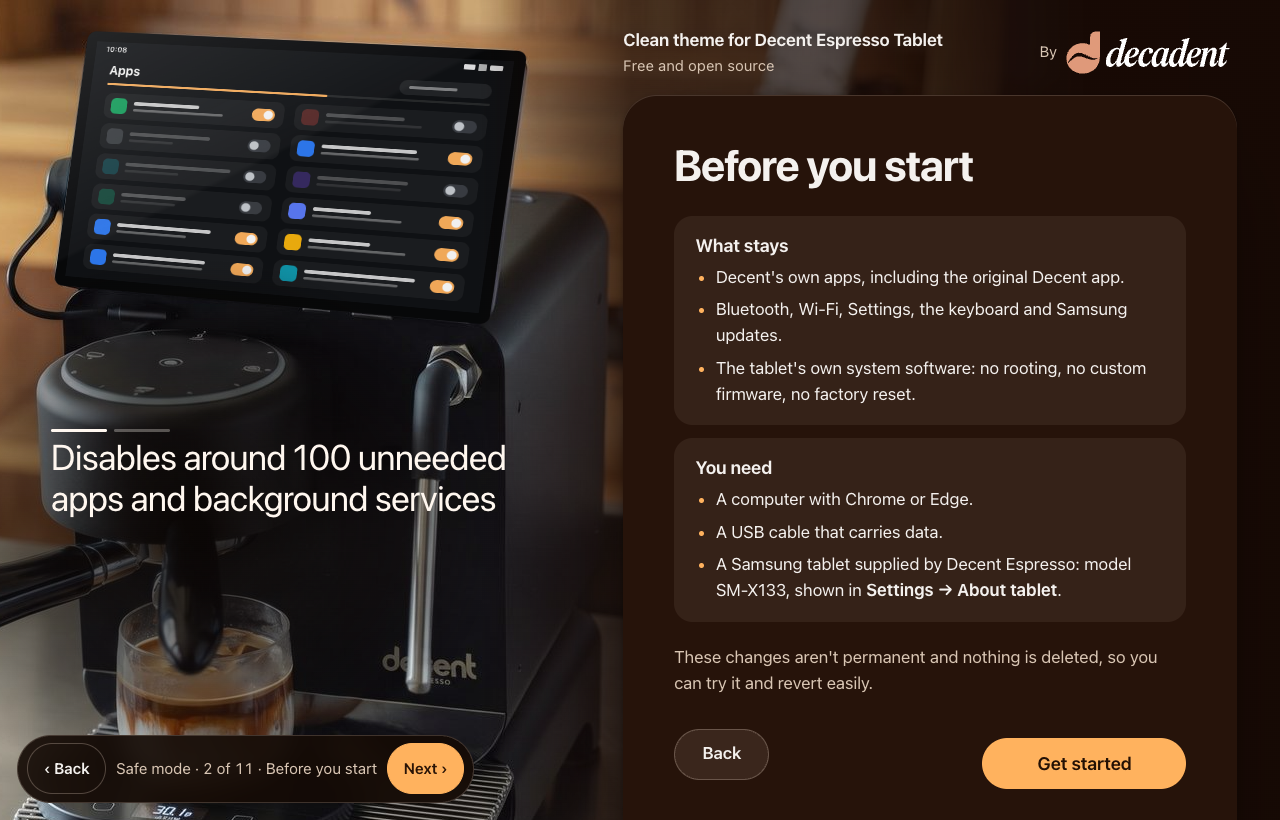
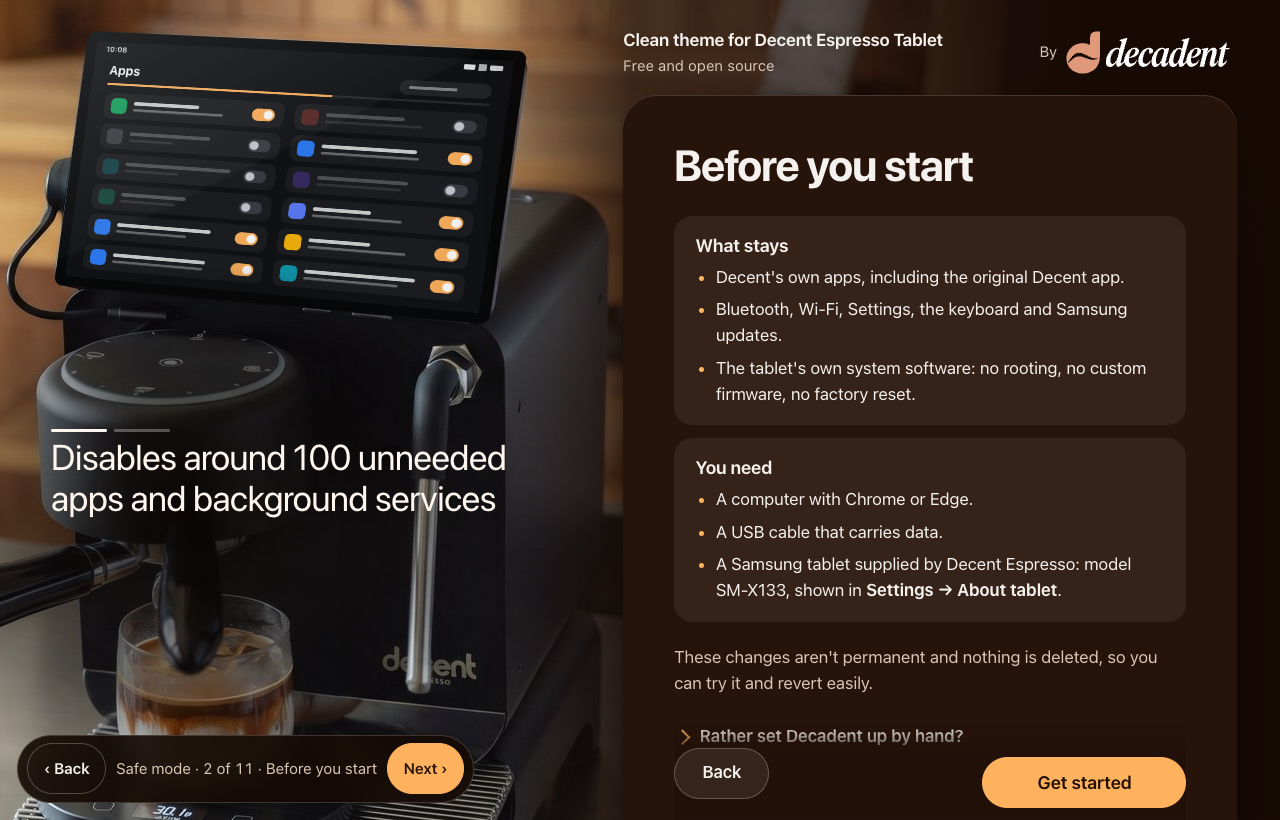
Decaid's first questions are a pause; the by-hand way is always on offer (D-27)
A Decaid that has never been opened asks its first questions. The page now
says so, waits, and adds the plugin by itself once Decaid's menu shows,
instead of handing over written instructions. The plugin step runs first
after the restart. The written instructions are always on the page as the
second way.

Changed region(s): [[0.5312, 0.8841, 0.9375, 1.0]]

diff --git a/web/src/app.js b/web/src/app.js
@@ -8,7 +8,7 @@ const FILES = __DEVICE_FILES__; // decent-setup.sh, packages-disable.txt, device
 const APKS = __APKS__; // [{ name, pkg, url, sha }]
 const qs = new URLSearchParams(location.search);
 // Safe mode (?safe, the older ?demo still works): a pretend tablet for the developer. Every screen looks and
-// behaves as in a real run, with Next / Back in a bar; nothing reaches USB. ?safe=done|nodecaid|manual|model|fail|build.
+// behaves as in a real run, with Next / Back in a bar; nothing reaches USB. ?safe=done|nodecaid|manual|model|fail|build. &asks=N: Decaid asks its first questions for N checks.
 const DEMO = qs.has("safe") || qs.has("demo");
 const DEMO_KIND = qs.get("safe") ?? qs.get("demo");
 
@@ -46,7 +46,7 @@ function supported() { return DEMO || ("usb" in navigator && window.isSecureCont
 async function connect() {
   setError("connect-error"); const btn = $("connect"); btn.disabled = true; btn.textContent = "Connecting…";
   try {
-    if (DEMO) tablet = new DemoTablet({ slow: !qs.get("to"), decadent: qs.get("decadent") === "installed", done: DEMO_KIND === "done", noDecaid: DEMO_KIND === "nodecaid", manual: DEMO_KIND === "manual", net: qs.get("net") || (qs.get("to") === "finished" ? "all" : null), hold: qs.get("to") === "running", fail: { model: "model", fail: "run", build: "build" }[DEMO_KIND] });
+    if (DEMO) tablet = new DemoTablet({ slow: !qs.get("to"), decadent: qs.get("decadent") === "installed", done: DEMO_KIND === "done", noDecaid: DEMO_KIND === "nodecaid", manual: DEMO_KIND === "manual", net: qs.get("net") || (qs.get("to") === "finished" ? "all" : null), hold: qs.get("to") === "running", asks: qs.get("asks") ? +qs.get("asks") : DEMO_KIND === "nodecaid" && qs.get("decaid") === "add" ? 4 : 0, fail: { model: "model", fail: "run", build: "build" }[DEMO_KIND] });
     else {
       const device = await AdbDaemonWebUsbDeviceManager.BROWSER.requestDevice();
       if (!device) throw new Error("No device selected");
@@ -302,13 +302,14 @@ async function runSetup() {
 }
 
 // Last steps. The owner joins Wi-Fi and signs in to Google; the core script's `finish` steps drive the rest
-// through the tablet's screen. A step the tablet doesn't allow ends as MANUAL and shows its written instructions.
+// through the tablet's screen. Decaid's first questions are a pause for the owner (decaidReady). The written instructions
+// are always on the screen as the second way; a step the tablet doesn't allow also lists its own under Left for you.
 let wantHomeDone = true, finWifi = false, finAcct = null, finPoll = null, decadentHad = false;
 const FIN = (s) => $("fin-steps").querySelector(`[data-k="${s}"]`);
 function finState(k, state, why) {
   const li = FIN(k); if (!li) return;
   li.dataset.state = state;
-  li.querySelector(".st").textContent = { run: "…", done: "✓", skip: "–", manual: "!" }[state] || "";
+  li.querySelector(".st").textContent = { run: "…", done: "✓", skip: "–", manual: "!", you: "?" }[state] || "";
   li.title = why || "";
 }
 async function finStatus() {
@@ -373,6 +374,24 @@ async function reconnectByHand() {
     await runFinish(true);
   } catch (e) { setError("fin-error", plainError(e)); $("fin-reconnect-row").hidden = false; }
 }
+// A Decaid that has never been opened asks its first questions (account, permissions, old data). They are the
+// owner's to answer: the page opens Decaid, says so, asks the tablet again every few seconds, and carries on by itself
+// once Decaid's menu shows. True when Decaid is ready for the plugin step.
+let decaidPass = false;
+async function decaidReady() {
+  const ask = $("decaid-ask"), keep = $("fin-keep"), was = keep.textContent, until = Date.now() + 15 * 60000;
+  decaidPass = false;
+  try {
+    for (let first = true; Date.now() < until && !decaidPass; first = false) {
+      const st = parseStatus(await tablet.setup(`finish decaid${first ? " open" : ""}`));
+      if (st.decaid !== "asking") return st.decaid === "ready";
+      if (ask.hidden) { ask.hidden = false; finState("plugin", "you"); keep.textContent = "Keep the cable plugged in. Decaid is waiting for you on the tablet."; }
+      await wait(2000);
+    }
+    return false;
+  } catch { return false; }
+  finally { ask.hidden = true; keep.textContent = was; }
+}
 function outcome(lines, k) {
   const mine = lines.filter((l) => / finish /.test(` ${l} `) || l.startsWith("FAIL"));
   if (mine.some((l) => l.startsWith("MANUAL") || l.startsWith("FAIL"))) return "manual";
@@ -387,7 +406,8 @@ async function runFinish(afterRestart = false) {
   const home = wantHomeDone, onHome = home && $("fin-decadent").checked, decadent = onHome && !decadentHad;
   // The Decadent plugin goes into Decaid through Decaid's own installer, whenever Decadent is wanted and Decaid is there.
   const plugin = onHome && (decaidHave || $("decaid-add").checked);
-  const plan = ["restart", ...(home ? ["icons", "launcher"] : []), "updates", ...(decadent ? ["decadent"] : []), ...(plugin ? ["plugin"] : []), ...(home ? ["place"] : []), "open"];
+  // The plugin goes first: it is the one step that may need the owner (Decaid's first questions), so they are free after it.
+  const plan = ["restart", ...(plugin ? ["plugin"] : []), ...(home ? ["icons", "launcher"] : []), "updates", ...(decadent ? ["decadent"] : []), ...(home ? ["place"] : []), "open"];
   // Name only the icons this tablet will get: Decaid if it is there, Decadent if wanted.
   const icons = [...(decaidHave || $("decaid-add").checked ? ["Decaid"] : []), ...(onHome ? ["Decadent"] : []), "Settings"];
   const said = (b) => icons.map((n) => (b ? `<b>${n}</b>` : n)).join(", ").replace(/, ([^,]*)$/, " and $1");
@@ -404,6 +424,8 @@ async function runFinish(afterRestart = false) {
       if (k === "updates" && (!finWifi || finAcct !== "yes")) { finState(k, "manual", finWifi ? "needs a Google account" : "needs Wi-Fi"); continue; }
       if (k === "decadent" && !finWifi) { finState(k, "manual", "needs Wi-Fi"); continue; }
       if (k === "open") { await openApps(); finState(k, "done"); continue; }
+      if (k === "plugin" && !(await decaidReady())) { finState(k, "manual", decaidPass ? "skipped" : "Decaid's first questions were not answered"); continue; }
+      if (k === "plugin") finState(k, "run");
       let lines;
       try { lines = await tablet.setup(`finish ${k}${k === "place" && !onHome ? " no-decadent" : ""}`); } catch (e) { lines = [`MANUAL finish ${k} ${e.message}`]; }
       finState(k, outcome(lines, k), (lines.find((l) => /^(MANUAL|FAIL)/.test(l)) || "").replace(/^\S+ (finish \S+ )?/, ""));
@@ -666,6 +688,8 @@ function init() {
   $("acct-open").onclick = () => tablet && tablet.setup("finish account-open").catch(() => {});
   $("acct-skip").onclick = () => { finAcct = "skip"; finStatus().catch(() => {}); };
   $("fin-go").onclick = () => runFinish();
+  $("decaid-pass").onclick = () => { decaidPass = true; };
+  for (const li of $("fin-steps").children) { const item = document.createElement("li"); item.innerHTML = li.querySelector(".by-hand").innerHTML; $("fin-byhand-list").append(item); }
   $("to-next").onclick = () => show("next");
   $("fin-reconnect").onclick = reconnectByHand;
   $("app-groups").addEventListener("change", (e) => {

diff --git a/web/index.html b/web/index.html
@@ -143,6 +143,16 @@
   <ul><li>A computer with Chrome or Edge.</li><li>A USB cable that carries data.</li><li>A Samsung tablet supplied by Decent Espresso: model SM-X133, shown in <b>Settings → About tablet</b>.</li></ul></div>
   </div>
   <p class="reassure">These changes aren't permanent and nothing is deleted, so you can try it and revert easily.</p>
+  <details class="byhand">
+    <summary>Rather set Decadent up by hand?</summary>
+    <p>You don't need this page to use Decadent. On the tablet:</p>
+    <ol>
+      <li>Install <b>Decaid</b> from <a href="https://github.com/decentespresso/decaid/releases/latest" target="_top" rel="noopener">its releases page</a>, open it and answer its first questions.</li>
+      <li>In Decaid open <b>Plugins</b>, tap the cog, then <b>Install plugin</b>, then <b>GitHub Release</b>. Type <b>decadentcoffee/plugin</b> and tap <b>Install</b>.</li>
+      <li>In Chrome open <b>decadentcoffee.app/app</b> and log in. The tablet links to your account by itself.</li>
+    </ol>
+    <p>The clean-up and the Home screen can be done by hand too: <a href="https://github.com/decadentcoffee/clean-decent-tablet/blob/main/docs/installation.md" target="_top" rel="noopener">the full written guide</a>.</p>
+  </details>
   <p id="unsupported" class="alert" hidden>This browser can't connect to a tablet. Open this page in Chrome or Edge on a computer, at an https address.</p>
   <div class="row"><button class="ghost" data-back="start">Back</button><button id="start" class="primary">Get started</button></div>
 </section>
@@ -253,14 +263,14 @@
 
   <div id="fin-run" hidden>
     <h3 id="fin-run-h">Finishing the tablet…</h3>
-    <p id="fin-keep" class="muted">Keep the cable plugged in, and leave the tablet alone until this is done. It takes about five minutes.</p>
+    <p id="fin-keep" class="muted">Keep the cable plugged in, and leave the tablet alone until this is done. It takes about five minutes. A Decaid that has never been opened asks you a few questions first.</p>
     <ol class="fin-steps" id="fin-steps">
       <li data-k="restart"><span class="st" aria-hidden="true"></span><span class="what">Restart the tablet</span><p class="by-hand">Restart the tablet: hold the power key, then tap <b>Restart</b>.</p></li>
+      <li data-k="plugin" data-home><span class="st" aria-hidden="true"></span><span class="what">Add the Decadent plugin to Decaid</span><span class="needs-you" id="decaid-ask" role="status" hidden><b>Decaid needs you on the tablet.</b> It is open and asking its first questions: a Decent account or skip, what it may use, and whether to bring over old data. Answer them there. This page carries on by itself. <button type="button" id="decaid-pass" class="ghost small">Skip the plugin for now</button></span><p class="by-hand">In <b>Decaid</b> open <b>Plugins</b>, tap the cog, then <b>Install plugin</b>, then <b>GitHub Release</b>. Type <b>decadentcoffee/plugin</b> and tap <b>Install</b>. The Decadent app shows these steps too.</p></li>
       <li data-k="icons" data-home><span class="st" aria-hidden="true"></span><span class="what">Remove Chrome, Play Store and Camera from Home</span><p class="by-hand">On Home, long-press <b>Chrome</b>, <b>Play Store</b> and <b>Camera</b>, and tap <b>Remove</b> on each. The apps stay installed.</p></li>
       <li data-k="launcher" data-home><span class="st" aria-hidden="true"></span><span class="what">Set Home to 3 rows and 5 columns</span><p class="by-hand">Long-press empty space, tap <b>Launcher Settings</b>. Set <b>Row count 3</b>, <b>Column count 5</b>, and turn on <b>Close app drawer on opening an app</b>.</p></li>
       <li data-k="updates"><span class="st" aria-hidden="true"></span><span class="what">Update Chrome and Android System WebView</span><p class="by-hand">In the <b>Play Store</b>, update <b>Chrome</b> and <b>Android System WebView</b>.</p></li>
       <li data-k="decadent" data-home><span class="st" aria-hidden="true"></span><span class="what">Install Decadent</span><p class="by-hand">In Chrome open <b>decadentcoffee.app/app</b>, tap the install icon in the address bar, and tap <b>Install</b>.</p></li>
-      <li data-k="plugin" data-home><span class="st" aria-hidden="true"></span><span class="what">Add the Decadent plugin to Decaid</span><p class="by-hand">In <b>Decaid</b> open <b>Plugins</b>, tap the cog, then <b>Install plugin</b>, then <b>GitHub Release</b>. Type <b>decadentcoffee/plugin</b> and tap <b>Install</b>. The Decadent app shows these steps too.</p></li>
       <li data-k="place" data-home><span class="st" aria-hidden="true"></span><span class="what">Put <span class="place-list">Decaid, Decadent and Settings</span> on Home</span><p class="by-hand">On Home, swipe up from the middle of the screen. Hold and drag <span class="place-list"><b>Decaid</b>, <b>Decadent</b> and <b>Settings</b></span> to the middle row. Any apps you like work too.</p></li>
       <li data-k="open"><span class="st" aria-hidden="true"></span><span class="what">Open Decaid, then Decadent</span><p class="by-hand">Open <b>Decaid</b> once, then <b>Decadent</b>.</p></li>
     </ol>
@@ -274,6 +284,11 @@
   <p>You can unplug the tablet now.</p>
   <p class="row"><button type="button" id="to-next" class="primary">What to do next</button></p>
   </div>
+  <details id="fin-byhand" class="byhand">
+    <summary>Rather do a step yourself? The written instructions</summary>
+    <p>Everything this page does on the tablet can be done by hand. Do any step yourself, and the page skips what is already done.</p>
+    <ol id="fin-byhand-list"></ol>
+  </details>
   <section class="share" aria-labelledby="share-h">
     <h3 id="share-h">Tell someone about it</h3>
     <p>Know another DE1 owner? Copy this, or share it straight from your device.</p>

diff --git a/web/debug.html b/web/debug.html
@@ -50,12 +50,13 @@ const SETUP = ["review", "confirm", "running", "finish", "finished"];
 const S = [
   ["Typical: Decaid on the tablet, both options", "The path most owners take.", "safe&opts=both", ["start", "about", "usb", "connect", ...SETUP]],
   ["No Decaid: install it", "The confirm screen asks for the Decaid file. The pretend tablet goes on without one.", "safe=nodecaid&decaid=add", SETUP],
+  ["Last steps: a new Decaid asks its first questions", "The plugin step pauses and says Decaid needs the owner, then carries on by itself. asks=999 keeps it waiting; Skip the plugin for now ends the wait.", "safe&net=all&asks=6", ["finish", "finished"]],
   ["No Decaid: keep the original Decent app", "Skips Decaid. The \"open Decaid once\" tip disappears from the last screen.", "safe=nodecaid&decaid=skip", SETUP],
   ["Clean-up only, no new Home screen", "No launcher steps at the end: no icons, grid or Decadent install.", "safe&opts=clean", SETUP],
   ["New Home screen only, no clean-up", "Apps stay on; only the Home screen and its last steps.", "safe&opts=home", SETUP],
   ["Last steps: tablet already on Wi-Fi and signed in", "Nothing to ask: Finish for me straight away.", "safe&net=all", ["finish", "finished"]],
   ["Last steps: Wi-Fi but no Google account", "Shows the sign-in choice. \"Continue without an account\" leaves the updates to the owner.", "safe&net=wifi", ["finish", "finished"]],
-  ["Last steps: some can't be done automatically", "Two steps fall back to their written instructions, listed under Left for you.", "safe=manual&net=all", ["finish", "finished"]],
+  ["Last steps: some can't be done automatically", "Two steps the tablet did not allow are listed with their written instructions under Left for you.", "safe=manual&net=all", ["finish", "finished"]],
   ["Tablet already set up: undo", "The choose screen offers Undo; undo lets the owner pick what to put back.", "safe=done", ["review", "undo", "undone"]],
   ["Untested firmware on the right tablet", "A warning, and options only after the owner accepts.", "safe=build", ["review"]],
   ["Another tablet model", "Refused, with no way past it.", "safe=model", ["review"]],

diff --git a/web/src/demo.js b/web/src/demo.js
@@ -4,7 +4,7 @@ import APPS from "./apps.json";
 const wait = (ms) => new Promise((r) => setTimeout(r, ms));
 const PKG = (i) => APPS[(i - 1) % APPS.length].pkg; // the i-th package, 1-based
 export class DemoTablet {
-  constructor(opts = {}) { this.done = !!opts.done; this.noDecaid = !!opts.noDecaid; this.fail = opts.fail; this.manual = !!opts.manual; this.hold = !!opts.hold; this.pushed = []; this.wifi = opts.net === "wifi" || opts.net === "all"; this.account = opts.net === "all"; this.webapk = !!opts.decadent; this.slow = !!opts.slow; }
+  constructor(opts = {}) { this.done = !!opts.done; this.noDecaid = !!opts.noDecaid; this.fail = opts.fail; this.manual = !!opts.manual; this.hold = !!opts.hold; this.pushed = []; this.wifi = opts.net === "wifi" || opts.net === "all"; this.account = opts.net === "all"; this.webapk = !!opts.decadent; this.slow = !!opts.slow; this.asks = opts.asks || 0; }
   async prepare() {}
   async push(p) { this.pushed.push(p); }
   async run(c, onLine = () => {}) {
@@ -44,6 +44,7 @@ export class DemoTablet {
       if (k === "launcher") await say("DONE finish launcher", 900);
       if (k === "updates") { await say("DONE finish update com.android.chrome", 1200); await say("SKIP finish update com.google.android.webview up to date", 300); await say("OK finish updates"); }
       if (k === "decadent") { this.webapk = true; await say("DONE finish decadent", 1200); }
+      if (k === "decaid") { await say(`STATUS decaid=${this.asks-- > 0 ? "asking" : "ready"}`, 600); await say("OK finish decaid"); }
       if (k === "plugin") await say(this.manual ? "MANUAL finish plugin Decaid's menu did not show" : "DONE finish plugin", 1200);
       if (k === "place") {
         for (const l of ["Decaid", "Decadent", "Settings"]) {

diff --git a/web/style.css b/web/style.css
@@ -563,6 +563,13 @@ footer { text-align: center; text-wrap: balance; }
 .fin-steps li[data-state="manual"] { background: rgba(255, 178, 94, 0.08); box-shadow: inset 0 0 0 1px rgba(255, 178, 94, 0.35); color: var(--ink); }
 .fin-steps li[data-state="manual"] .st { border-color: var(--accent); color: var(--accent); }
 .fin-steps li[data-state="manual"] .by-hand { display: block; }
+.fin-steps .needs-you { grid-column: 2; margin: 0.3rem 0 0; color: var(--ink); line-height: 1.5; }
+.fin-steps .needs-you[hidden] { display: none; }
+.fin-steps .needs-you button { margin: 0.5rem 0 0; display: block; }
+.fin-steps li[data-state="you"] { background: rgba(255, 178, 94, 0.08); box-shadow: inset 0 0 0 1px rgba(255, 178, 94, 0.35); color: var(--ink); }
+.fin-steps li[data-state="you"] .st { border-color: var(--accent); color: var(--accent); }
+.byhand ol { display: grid; gap: 0.45rem; padding-left: 1.3rem; }
+.byhand li p { margin: 0; }
 @media (prefers-reduced-motion: no-preference) {
   .fin-steps li[data-state="run"] .st { animation: fin-pulse 1.2s ease-in-out infinite; }
   @keyframes fin-pulse { 50% { opacity: 0.35; } }

diff --git a/docs/decisions.md b/docs/decisions.md
@@ -109,3 +109,5 @@ looked like a bare tablet, and Lawnchair was rejected. Olauncher stays installed
 **D-25 Decaid is always the latest release, 16 Nov 2026.** The owner: "we want to offer the latest, just install latest in our installer." `manifests/apks.txt` names Decent's latest-release download instead of a pinned build. `scripts/setup.sh` reads the checksum from the release's `decaid-latest-SHA256SUMS.txt`. The webpage reads it from GitHub's API for the latest release (`latestApk` in `web/src/core.js`), names the version in the download link, and checks the chosen file before it installs anything. With no answer from GitHub it installs nothing. Fossify stays pinned. A tablet that already has Decaid is left as it is: Decaid offers its own updates. Not tested: an install of 0.9.2 through this project (the reference tablet already had Decaid).
 
 **D-26 The Decadent plugin goes in through Decaid's own installer, 17 Nov 2026.** Decaid 0.9.2 lets no outside program install a plugin, so the finish step `plugin` (`fin_plugin` in `device/decent-setup.sh`) does what a person would: it opens Decaid, leaves the coffee screen with Android's Back key (nothing is sent to the espresso machine), then taps Plugins, the cog, Install plugin, GitHub Release, types `decadentcoffee/plugin` and taps Install. Decaid keeps the plugin updated from then on. It runs when Decadent is wanted and Decaid is on the tablet, and ends MANUAL with the same taps written out when a screen is not the expected one (a Decaid that has never been opened shows its first-run questions, which are the owner's to answer). Verified on the reference tablet with Decaid 0.9.2 (38 s, Decaid answered "Plugin installed", an existing link to a Decadent account was kept). Not tested: a Decaid installed minutes earlier by this project, and the webpage's own run of the step (only the script was run, over adb).
+
+**D-27 Decaid's first questions are a pause, and the written instructions are always there, 18 Nov 2026.** The owner: falling back to written instructions is the wrong answer to a Decaid that has never been opened; the written instructions are a second way that is always on offer, for people who would rather do it themselves. So: (1) `finish decaid [open]` reports `ready`, `asking` or `absent`. `asking` is anything that is not Decaid's menu: its Welcome, account, permission and import screens, or an Android dialog over them. The script answers none of them. The webpage shows "Decaid needs you on the tablet", asks again every few seconds for up to 15 minutes, and runs `finish plugin` by itself once Decaid's menu shows; "Skip the plugin for now" ends the wait. (2) The plugin step now runs first after the restart, so the one step that may need the owner comes early. (3) Decaid looks for the machine on every start. The script gives it 12 seconds, then leaves that screen with Decaid's own "Continue to Dashboard" button, and leaves the coffee screen with Back. Neither sends anything to the espresso machine; a Decaid the owner has allowed to use Bluetooth connects to the machine by itself, as it does on every start. (4) The page offers the by-hand way in two places that are always visible: "Rather set Decadent up by hand?" on Before you start (Decaid, the plugin, the app, and the full written guide), and "Rather do a step yourself?" under the last steps. A step the tablet does not allow still lists its own instructions under Left for you. Screen labels for the first-run and scan screens come from Decaid 0.9.2's source. Tested on the simulated tablet and in the page's safe mode; not run on a real tablet with a new Decaid.

diff --git a/README.md b/README.md
@@ -55,7 +55,7 @@ All three run the same script on the tablet ([`device/decent-setup.sh`](device/d
 
 Every screen of the webpage is shown below, under [What you'll see](#-what-youll-see).
 
-Only two steps need you: joining Wi-Fi and signing in to Google, plus logging in to Decadent if you use it. The page then finishes the tablet itself: restart, Home screen layout, Play updates and the Decadent install. Any step it can't do shows its written instructions instead. This screen-driving part is not yet tested on a real tablet. The full manual walk-through is in [`docs/installation.md`](docs/installation.md).
+Only two steps need you: joining Wi-Fi and signing in to Google, plus logging in to Decadent if you use it. The page then finishes the tablet itself: restart, Home screen layout, Play updates and the Decadent install. A Decaid that has never been opened asks you its first questions on the tablet; the page waits and then carries on by itself. The written instructions for every step are always on the page if you would rather do one yourself. This screen-driving part is not yet tested on a real tablet. The full manual walk-through is in [`docs/installation.md`](docs/installation.md).
 
 ## 👀 What you'll see
 

diff --git a/docs/compatibility.md b/docs/compatibility.md
@@ -17,6 +17,7 @@ Labels: **Verified** = tested on a real device. **Documented** = from an officia
 | Decaid `net.tadel.reaprime` | 0.9.1 | 3 Nov 2026 |
 | Decaid `net.tadel.reaprime` | 0.9.2 (build 3191), updated inside Decaid. Port 8080 answered and the DE1 was connected. Installing it with this project is not tested: the tablet already had Decaid | 16 Nov 2026 |
 | Decadent plugin in Decaid | `finish plugin` installed 0.37.0 from `decadentcoffee/plugin` through Decaid 0.9.2's Plugins screen; Verified by script over adb, the webpage's run is not tested | 17 Nov 2026 |
+| Decaid's first questions (`finish decaid`), the wait and the machine-search exit | Simulated tablet and the page's safe mode only. **Not run** on a real tablet with a Decaid that has never been opened; labels are from Decaid 0.9.2's source | 18 Nov 2026 |
 | AndroWish `tk.tcl.wish` | 1.0 | 3 Nov 2026 |
 | Chrome | 154.0.8037.92 | 3 Nov 2026 |
 | Android System WebView | 153.0.8010.36 | 3 Nov 2026 |
